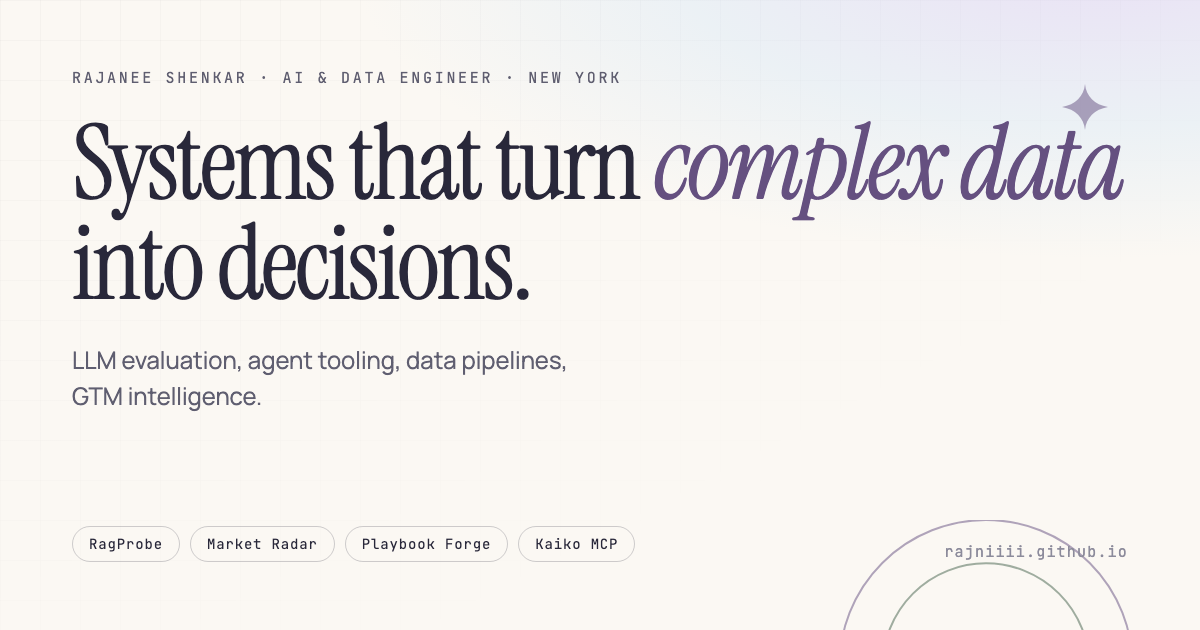
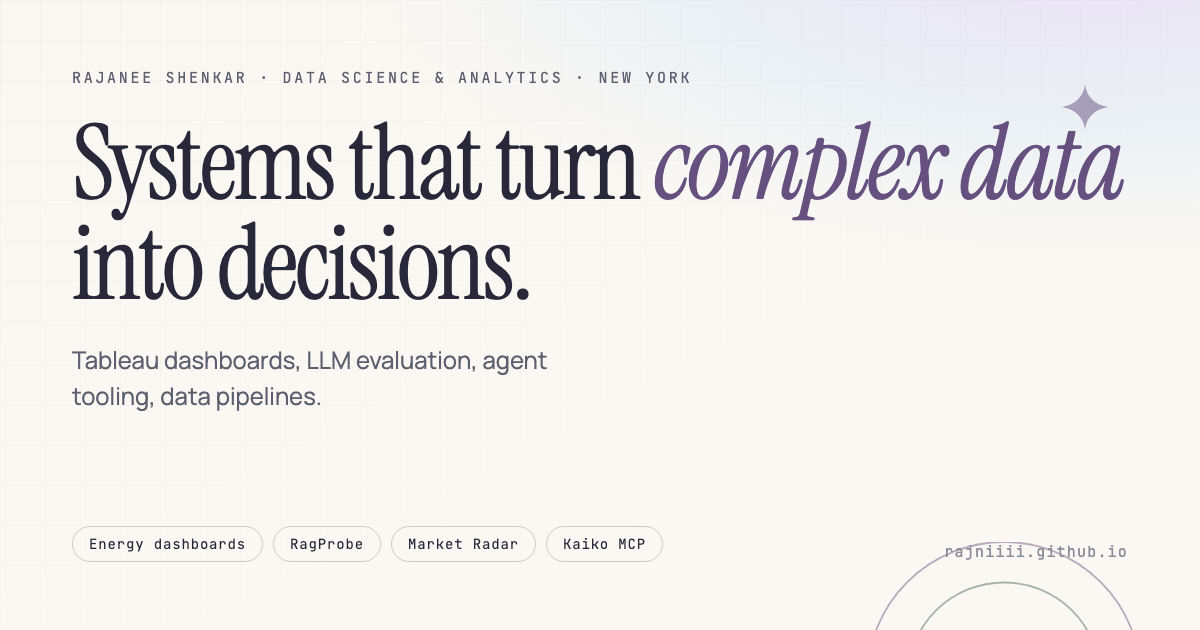
Retitle the site as Data Science & Analytics
Replaces the AI & Data Engineer label in the page title, footer and
social metadata, refreshes the keywords, and re-renders og.png so the
shared card matches.

diff --git a/src/app/layout.tsx b/src/app/layout.tsx
@@ -29,20 +29,22 @@ const jetbrainsMono = JetBrains_Mono({
 });
 
 const description =
-  "Rajanee Shenkar — AI & Data Engineer in New York. LLM evaluation, agent tooling, data pipelines and GTM intelligence, with case studies on RagProbe, Market Radar, Playbook Forge and an MCP market-data agent.";
+  "Rajanee Shenkar — data science and analytics in New York. Tableau dashboards on global energy, LLM evaluation, agent tooling and data pipelines, with case studies on RagProbe, Market Radar, Playbook Forge and an MCP market-data agent.";
 
 export const metadata: Metadata = {
   metadataBase: new URL(SITE_URL),
   title: {
-    default: "Rajanee Shenkar — AI & Data Engineer",
+    default: "Rajanee Shenkar — Data Science & Analytics",
     template: "%s — Rajanee Shenkar",
   },
   description,
   alternates: { canonical: "/" },
   authors: [{ name: profile.name, url: SITE_URL }],
   keywords: [
-    "AI engineer",
-    "data engineer",
+    "data scientist",
+    "data analyst",
+    "data science",
+    "Tableau",
     "LLM evaluation",
     "RAG",
     "MCP",
@@ -54,7 +56,7 @@ export const metadata: Metadata = {
     type: "website",
     url: SITE_URL,
     siteName: "Rajanee Shenkar",
-    title: "Rajanee Shenkar — AI & Data Engineer",
+    title: "Rajanee Shenkar — Data Science & Analytics",
     description,
     locale: "en_US",
     images: [
@@ -68,7 +70,7 @@ export const metadata: Metadata = {
   },
   twitter: {
     card: "summary_large_image",
-    title: "Rajanee Shenkar — AI & Data Engineer",
+    title: "Rajanee Shenkar — Data Science & Analytics",
     description,
     images: ["/og.png"],
   },

diff --git a/src/data/profile.ts b/src/data/profile.ts
@@ -2,7 +2,7 @@ export const SITE_URL = "https://rajniiii.github.io";
 
 export const profile = {
   name: "Rajanee Shenkar",
-  role: "AI & Data Engineer",
+  role: "Data Science & Analytics",
   location: "New York City, NY",
   email: "shenkarrajanee@gmail.com",
   linkedin: "https://www.linkedin.com/in/rajanee-shenkar-a1862626b/",
